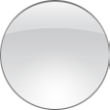
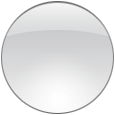
use better magnifying glass image, allowing us to simplify the CSS slightly

Changed region(s): [[0.0, 0.0, 1.0, 1.0]]

diff --git a/lib/util/touch.css b/lib/util/touch.css
@@ -164,7 +164,6 @@ both of which are hidden/shown based on the tool's class
   left: 0px;
   overflow: hidden;
   background-color: white;
-  border: 3px white ridge;
   z-index: 999;
   display: none;
   /* this fixes the overflow:hidden in webKit browsers. 
@@ -175,15 +174,15 @@ both of which are hidden/shown based on the tool's class
 }
 
 .circle{
-  width: 100px;
-  height: 100px;
-  border-radius: 50px;
+  width: 115px;
+  height: 115px;
+  border-radius: 57px;
   background-image: url('../util/glass.png');
-  background-position: -3px -3px; /* slide everything UL by 3px, to account for the border-width */
 }
 #tool.magnify .circle+#notch{display: none;}
 
 .rectangle{
+  border: 3px white ridge;
   width: 100px;
   height: 25px;
   border-radius: 8px;
